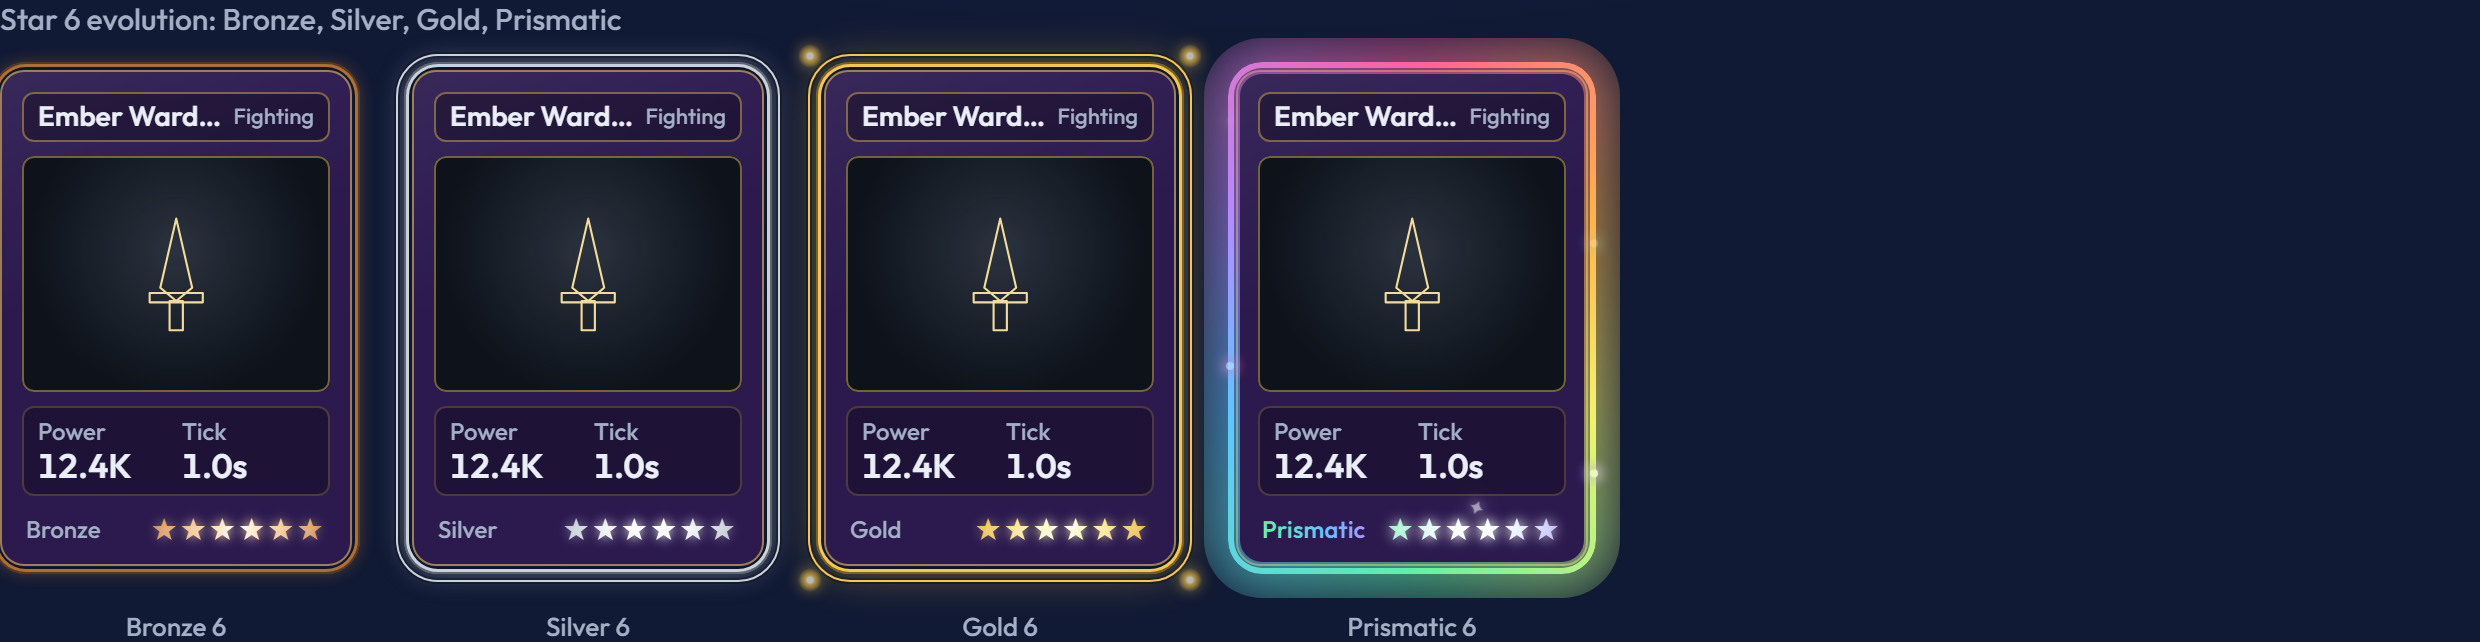
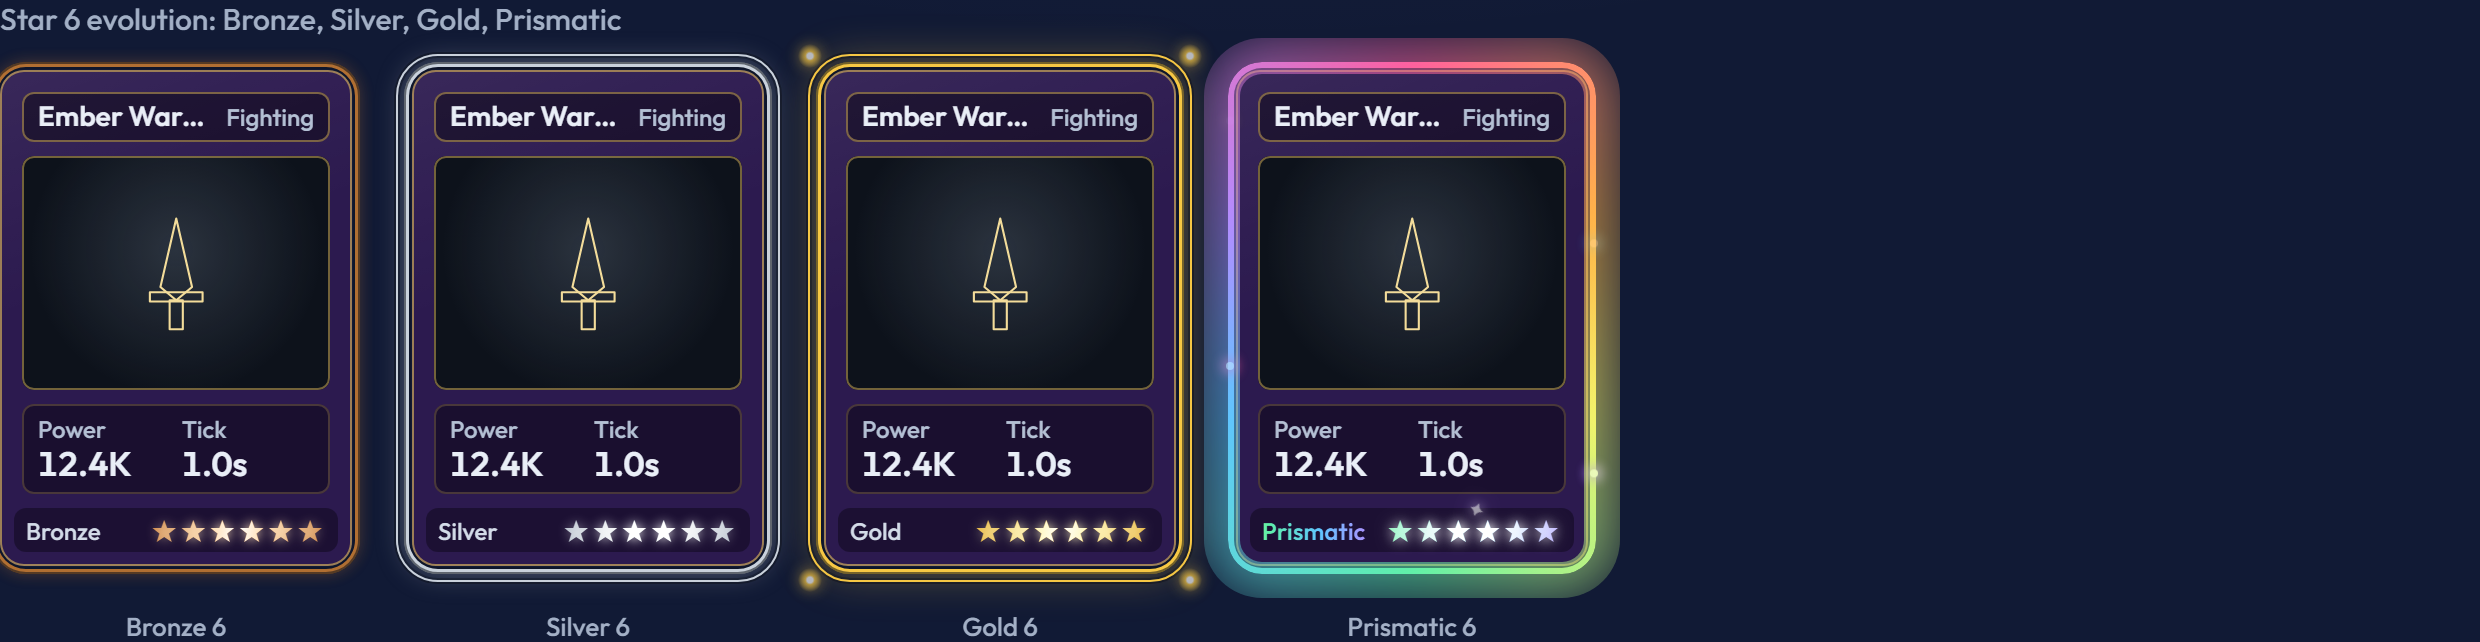
Keep card text above holo finishes; document the cosmetic system and design updates

diff --git a/src/renderer/src/theme/base.css b/src/renderer/src/theme/base.css
@@ -68,8 +68,12 @@ body {
   inset: 0;
   border-radius: inherit;
 }
+/* The rarity body sits under everything inside the card. Panels (plate, art, stats) are positioned
+   without a z-index so they create no stacking context: their backgrounds paint under the finish
+   (holo covers the whole card) while their TEXT is lifted above it, so a holo pattern never runs
+   through names or numbers. */
 .bi-card__rarity {
-  z-index: 0;
+  z-index: -1;
   overflow: hidden;
 }
 .bi-card__head,
@@ -77,7 +81,14 @@ body {
 .bi-card__stats,
 .bi-card__hp {
   position: relative;
-  z-index: 1;
+}
+.bi-card__name,
+.bi-card__job,
+.bi-card__stats dt,
+.bi-card__stats dd,
+.bi-hpstack {
+  position: relative;
+  z-index: 3;
 }
 .bi-card__finish {
   z-index: 2;

diff --git a/docs/COSMETICS.md b/docs/COSMETICS.md
@@ -1,0 +1,47 @@
+# Cosmetic system
+
+How the customization-driven UI is built, so new cosmetics and slots stay consistent. Game rules live in `DESIGN.md`; this file is the technical pattern.
+
+## Pieces
+
+| Piece         | Where                                | What it is                                                                              |
+| ------------- | ------------------------------------ | --------------------------------------------------------------------------------------- |
+| Cosmetic data | `src/data/content/cosmetics.json`    | Every item: slot, set, rarity, exclusive card, starter flag, owned buff, upgrade levels |
+| Rarity styles | `src/data/content/rarities.json`     | Card body colour per rarity, plus optional recipes (neon, chrome)                       |
+| Wear rules    | `src/data/content/wearRules.json`    | Minimum card rank to wear a border, a finish, or a card-exclusive item                  |
+| Schemas       | `src/data/schemas.ts`                | Validation, including which tokens each slot may set                                    |
+| Theming logic | `src/game/theme.ts`                  | Pure functions: equip, per-card overrides, wear rules, level merging, set detection     |
+| Application   | `src/renderer/src/theme/apply.ts`    | Writes the resolved tokens and recipe classes onto `<html>` and card elements           |
+| Recipes       | `src/renderer/src/theme/recipes.css` | CSS for visuals a token cannot express                                                  |
+| Effects       | `src/renderer/src/theme/effects.ts`  | One-shot animations for attacks and tick numbers                                        |
+| Registry      | `src/renderer/src/theme/registry.ts` | The recipe and effect ids the renderer implements                                       |
+
+## Three kinds of visual value
+
+1. **Tokens.** Plain values (colours, sizes, fonts). A token key `plate-bg` becomes the CSS variable `--bi-plate-bg`. Rarity tokens get a `rarity-` prefix: `--bi-rarity-body`. Each slot may only set the keys listed in `SLOT_TOKENS`; anything else fails validation with a clear message. Values cannot contain `; { } < >` or a backslash.
+2. **Recipes.** Named CSS classes (`.r-<id>`) for decorations and patterns: filigree corners, holo lattices, neon tubes. Data names them; `recipes.css` implements them.
+3. **Effects.** Named animations. Attack items give one effect per job (`fighting`, `mining`, `logging`); tick items give one effect.
+
+An item only lists what it changes: tokens it does not set are inherited from the starter item of its slot. Recipes and effects are not inherited.
+
+## Layers on a card
+
+From back to front: rarity body, panel backgrounds (plate, art window, stats), finish, decoration, card text, rank footer. Rank effects (star-6 rings, prismatic aura) sit outside the card edge, so rank and cosmetics never cover each other.
+
+## Upgrade levels
+
+`levels` is a list, lowest first. Level N shows levels 1..N merged: later tokens win, recipes accumulate (level 3 of Gilded Filigree applies `filigree-1`, `filigree-2` and `filigree-3`), effects are replaced. Design each level to add one visible thing.
+
+## Adding things
+
+- **A new cosmetic using existing recipes:** add an entry to `cosmetics.json`. No code.
+- **A new recipe:** add `.r-<id>` to `recipes.css` and the id to `RECIPES` in `registry.ts`. Tests fail if data names a recipe that is not registered, or a registered recipe has no CSS.
+- **A new effect:** implement it in `effects.ts` and add the id to `EFFECTS`.
+- **A new slot** (for example a colour theme or a layout skin): add it to `COSMETIC_SLOTS` and `SLOT_TOKENS` in `schemas.ts`, add one starter item in `cosmetics.json`, and use its tokens in CSS. If it is drawn per card, also add it to `CARD_SLOTS` and `wearRules`. Components read tokens, so they do not need rewriting. Adding a slot changes saved loadouts only by adding a key, so old saves stay valid.
+
+## Checks
+
+- Startup validates all data and throws a readable error listing every problem.
+- `assertVisualsImplemented` fails at startup if data names a recipe or effect that does not exist.
+- `npm test` covers equipping, card-exclusive overrides, wear rules, level merging, set detection and invalid data.
+- `node scripts/a11y-audit.mjs` (with `npm run dev` running) checks text contrast across every table x border x rarity, reduced motion and keyboard access.

diff --git a/docs/DESIGN.md b/docs/DESIGN.md
@@ -50,6 +50,8 @@ This is a starting point and will be tuned.
 - **Damage** is a stat bought with resources and kept through prestige.
 - **Bosses** are HP walls, auto-fought in parallel with everything else (no active combat input), and they respawn so they can be farmed.
 - Boss HP scales **slowly** with prestige count.
+- Boss HP is shown as **stacked bars** with a **×N** count of bars left (like a fighting-game life gauge). The current bar drains over the colour of the next one. Each boss sets its number of bars.
+- Attacks are automatic. Each hit plays the equipped attack animation and a floating damage number; with reduced motion the hit animations are skipped and numbers simply fade.
 - New, harder **dungeons** unlock with progress.
 - Dungeons drop **rare items** at low odds (e.g. 0.5%) with a **pity counter**, plus **portal resources**.
 
@@ -80,7 +82,12 @@ Bronze ★1–6 → Silver ★1–6 → Gold ★1–6 → Prismatic ★1–6 (ma
 - ★6 of each tier is a **big upgrade plus a visual change**.
 - Star colors follow the tier; **Prismatic stars are animated**.
 - **★6 shine:** at ★6 the stars get a polished light sweep that moves back and forth across the star glyphs in a loop, coloured to the tier. On Prismatic it blends with the animated stars. ★1–5 have no shine.
-- **★6 evolution:** each tier's ★6 adds a small, escalating upgrade to the card's look (Bronze faintest, Prismatic strongest), never a full redesign.
+- **★6 evolution:** each tier's ★6 adds a small, escalating upgrade to the card's look, never a full redesign:
+  - Bronze ★6: shine and one thin ring just outside the card.
+  - Silver ★6: shine and two rings.
+  - Gold ★6: shine, two rings, a gold glow and four corner glints.
+  - Prismatic ★6: shine, a thick fast rainbow ring, a breathing aura behind the card and motes rising along the sides.
+  - Rings carry a thin dark edge so they read on light and dark tables. Reaching ★6 plays a one-time flash.
 - **Prismatic is the top tier for now and must look clearly different from ★1:** its own animated ring and rainbow tier name. Prismatic ★6 adds a much stronger treatment (thick fast ring, aura, rising motes).
 - **Rank visuals never clash with cosmetics:** rank effects sit outside the card edge (rings, aura) and on the stars; cosmetics sit inside the edge. Stars are never covered by a cosmetic.
 - **Duplicates / shards add stars.**
@@ -115,6 +122,8 @@ Bronze ★1–6 → Silver ★1–6 → Gold ★1–6 → Prismatic ★1–6 (ma
 7. Cursor
 
 - Some rare cosmetics are **exclusive to one specific card** and override the global slot on that card only.
+- **Wearing card cosmetics depends on the card's rank.** Any item can be owned (and its owned buff counts), but a card must reach a minimum rank to wear it; below that it shows the starter look for that slot. Starting values: card border from Gold ★1, card finish (holo) from Prismatic ★1, card-exclusive items from Prismatic ★6. Global slots (attack, tick, numbers, table, cursor) are always worn. The thresholds live in data and are expected to be tuned.
+- A holo finish covers the whole card, but card text always stays above it.
 - **Sources:** dungeon drops, cosmetics portal, prestige, achievements.
 - **Owning** an item gives a small permanent buff.
 - **Equipping a matching set** gives an extra bonus; each set must look coherent when fully equipped.
